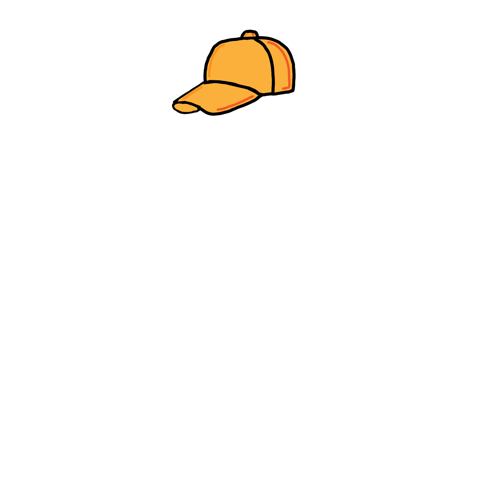
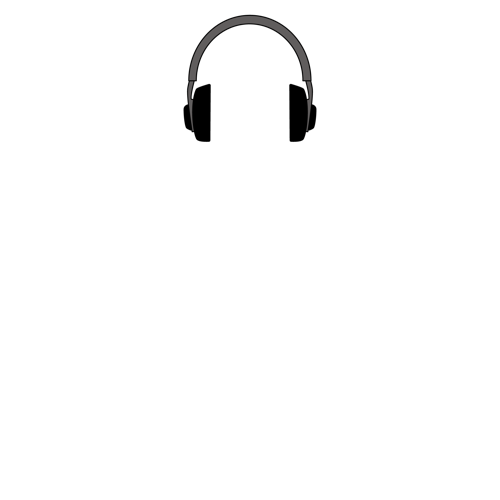
add one more layer and a script to resize assets to 500x500

Changed region(s): [[0.33, 0.03, 0.66, 0.3]]

diff --git a/resize.py b/resize.py
@@ -1,0 +1,46 @@
+# from PIL import Image
+
+# i = 3
+# while i <= 10:
+#     new_image = Image.open(fp='assets/background/' + str(i) + '.png').convert('RGBA')
+#     resized = new_image.resize((500, 500))
+#     resized.save(fp='assets/background/' + str(i) + '.png', format="PNG")
+#     i += 1
+
+# i = 0
+# new_image = Image.open(fp='assets/body/' + str(i) + '.png').convert('RGBA')
+# resized = new_image.resize((500, 500))
+# resized.save(fp='assets/body/' + str(i) + '.png', format="PNG")
+
+
+# i = 0
+# while i <= 5:
+#     new_image = Image.open(fp='assets/accessory/' + str(i) + '.png').convert('RGBA')
+#     resized = new_image.resize((500, 500))
+#     resized.save(fp='assets/accessory/' + str(i) + '.png', format="PNG")
+#     i += 1
+
+# i = 0
+# while i <= 9:
+#     new_image = Image.open(fp='assets/eyes/' + str(i) + '.png').convert('RGBA')
+#     resized = new_image.resize((500, 500))
+#     resized.save(fp='assets/eyes/' + str(i) + '.png', format="PNG")
+#     i += 1
+
+# i = 1
+# while i <= 9:
+#     new_image = Image.open(fp='assets/hat/#00' + str(i) + '.png').convert('RGBA')
+#     resized = new_image.resize((500, 500))
+#     resized.save(fp='assets/hat/' + str(i) + '.png', format="PNG")
+#     i += 1
+
+# i = 1
+# while i <= 9:
+#     new_image = Image.open(fp='assets/mouth/#00' + str(i) + '.png').convert('RGBA')
+#     resized = new_image.resize((500, 500))
+#     resized.save(fp='assets/mouth/' + str(i) + '.png', format="PNG")
+#     i += 1
+
+# new_image = Image.open(fp='assets/mouth/#010.png').convert('RGBA')
+# resized = new_image.resize((500, 500))
+# resized.save(fp='assets/mouth/0.png', format="PNG")

diff --git a/config.py b/config.py
@@ -1,22 +1,26 @@
-number_of_nfts = 7
+number_of_nfts = 1_000
 
-background_population = (0, 1, 2)
-animated_backgrounds = (2, 99)
-background_weights = (10, 45, 45)
-background_values = ["orange_is_the_new_black", "green", "marroncino"]
+background_population = (0, 1, 2, 3, 4, 5, 6, 7)
+animated_backgrounds = ()
+background_weights = (10, 10, 10, 10, 10, 10, 15, 15)
+background_values = ["0", "1", "2", "3", "4", "5", "6", "7"]
 
 body_population = (0, 1)
 body_weights = (100, 0)
 body_values = ["basic"]
 
-eyes_population = (0, 1, 2)
-eyes_weights = (33, 33, 34)
-eyes_values = ["triple", "geek", "another"]
+eyes_population = (0, 1, 2, 3, 4, 5, 6, 7, 8, 9)
+eyes_weights = (10, 10, 10, 10, 10, 10, 10, 10, 10, 10)
+eyes_values = ["0", "1", "2", "3", "4", "5", "6", "7", "8", "9"]
 
-hat_population = (0, 1, 2)
-hat_weights = (33, 33, 34)
-hat_values = ["detective", "red_hat", "pippo"]
+hat_population = (0, 1, 2, 3, 4, 5, 6, 7, 8, 9)
+hat_weights = (10, 10, 10, 10, 10, 10, 10, 10, 10, 10)
+hat_values = ["0", "1", "2", "3", "4", "5", "6", "7", "8", "9"]
 
-mouth_population = (0, 1)
-mouth_weights = (50, 50)
-mouth_values = ["angry", "surprised"]
+mouth_population = (0, 1, 2, 3, 4, 5, 6, 7, 8, 9)
+mouth_weights = (10, 10, 10, 10, 10, 10, 10, 10, 10, 10)
+mouth_values = ["0", "1", "2", "3", "4", "5", "6", "7", "8", "9"]
+
+accessory_population = (0, 1, 2, 3, 4, 5)
+accessory_weights = (15, 15, 15, 15, 20, 20)
+accessory_values = ["0", "1", "2", "3", "4", "5"]

diff --git a/utilities/generate_new_combination.py b/utilities/generate_new_combination.py
@@ -1,6 +1,6 @@
 from random import choices
 from config import background_population, background_weights, body_population, body_weights, eyes_population, \
-    eyes_weights, hat_population, hat_weights, mouth_population, mouth_weights
+    eyes_weights, hat_population, hat_weights, mouth_population, mouth_weights, accessory_population, accessory_weights
 
 generated_combinations = []
 
@@ -12,7 +12,8 @@ def generate_new_combination() -> dict:
             'body_id': choices(population=body_population, weights=body_weights, k=1)[0],
             'eyes_id': choices(population=eyes_population, weights=eyes_weights, k=1)[0],
             'hat_id': choices(population=hat_population, weights=hat_weights, k=1)[0],
-            'mouth_id': choices(population=mouth_population, weights=mouth_weights, k=1)[0]
+            'mouth_id': choices(population=mouth_population, weights=mouth_weights, k=1)[0],
+            'accessory_id': choices(population=accessory_population, weights=accessory_weights, k=1)[0]
         }
 
         if combination not in generated_combinations:

diff --git a/utilities/generate_json_data.py b/utilities/generate_json_data.py
@@ -2,7 +2,7 @@ from math import floor
 from time import time
 from json import dumps
 
-from config import background_values, body_values, mouth_values, hat_values, eyes_values
+from config import background_values, body_values, mouth_values, hat_values, eyes_values, accessory_values
 
 
 def generate_json_data(new_image_id: int, combination: dict) -> None:
@@ -19,6 +19,7 @@ def generate_json_data(new_image_id: int, combination: dict) -> None:
             {"trait_type": "MOUTH", "value": mouth_values[combination['mouth_id']]},
             {"trait_type": "HAT", "value": hat_values[combination['hat_id']]},
             {"trait_type": "EYES", "value": eyes_values[combination['eyes_id']]},
+            {"trait_type": "ACCESSORY", "value": accessory_values[combination['accessory_id']]},
         ],
         "compiler": "HashLips Art Engine"  # not sure if needed
     }

diff --git a/utilities/generate_nft_image.py b/utilities/generate_nft_image.py
@@ -7,6 +7,7 @@ def generate_nft_image(new_image_id: int, combination: dict) -> None:
     _add_attachment(new_image, 'assets/eyes/', combination['eyes_id'])
     _add_attachment(new_image, 'assets/hat/', combination['hat_id'])
     _add_attachment(new_image, 'assets/mouth/', combination['mouth_id'])
+    _add_attachment(new_image, 'assets/accessory/', combination['accessory_id'])
     new_image.save(fp='generated_nft_set/images/' + str(new_image_id) + '.png', format="PNG")
 
 
